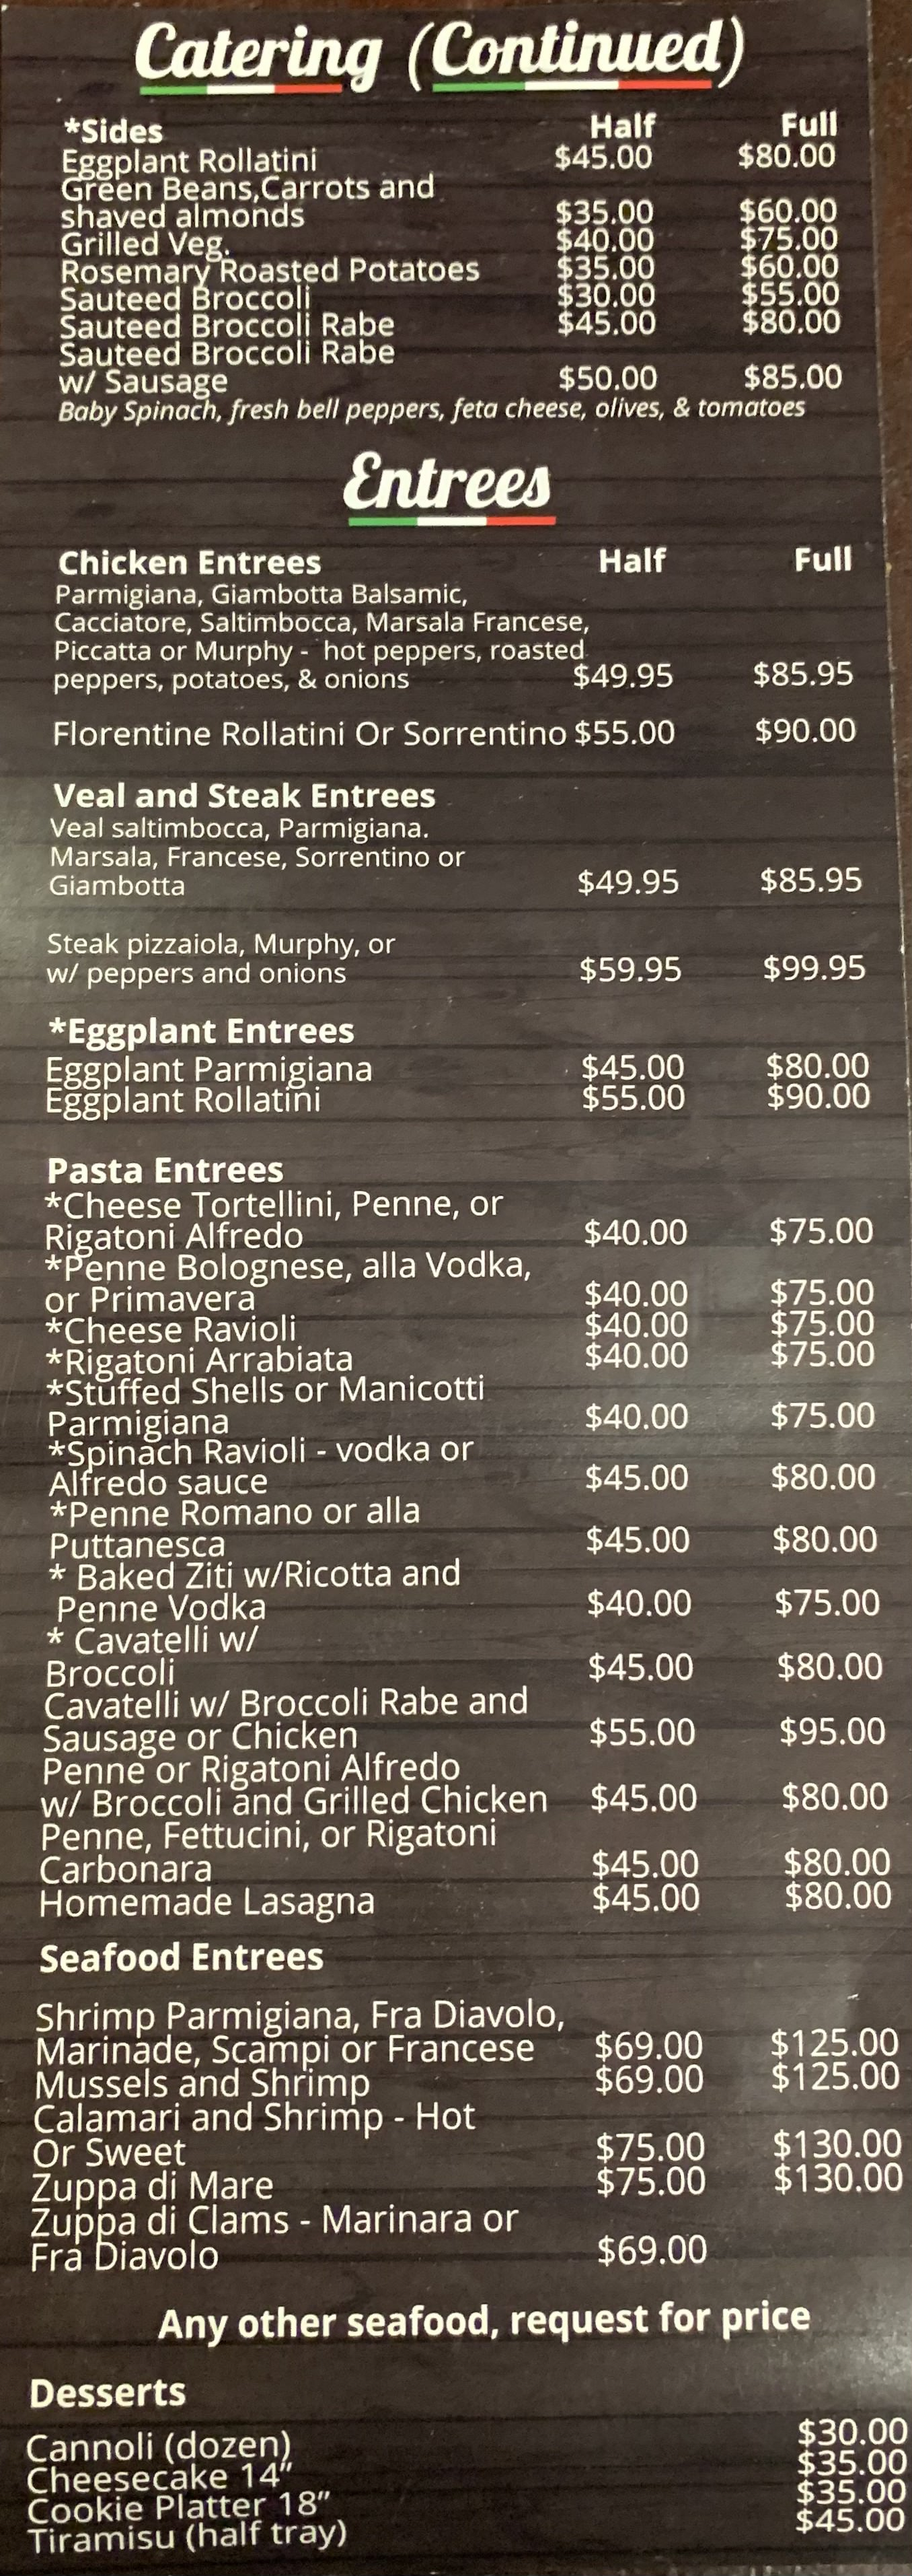
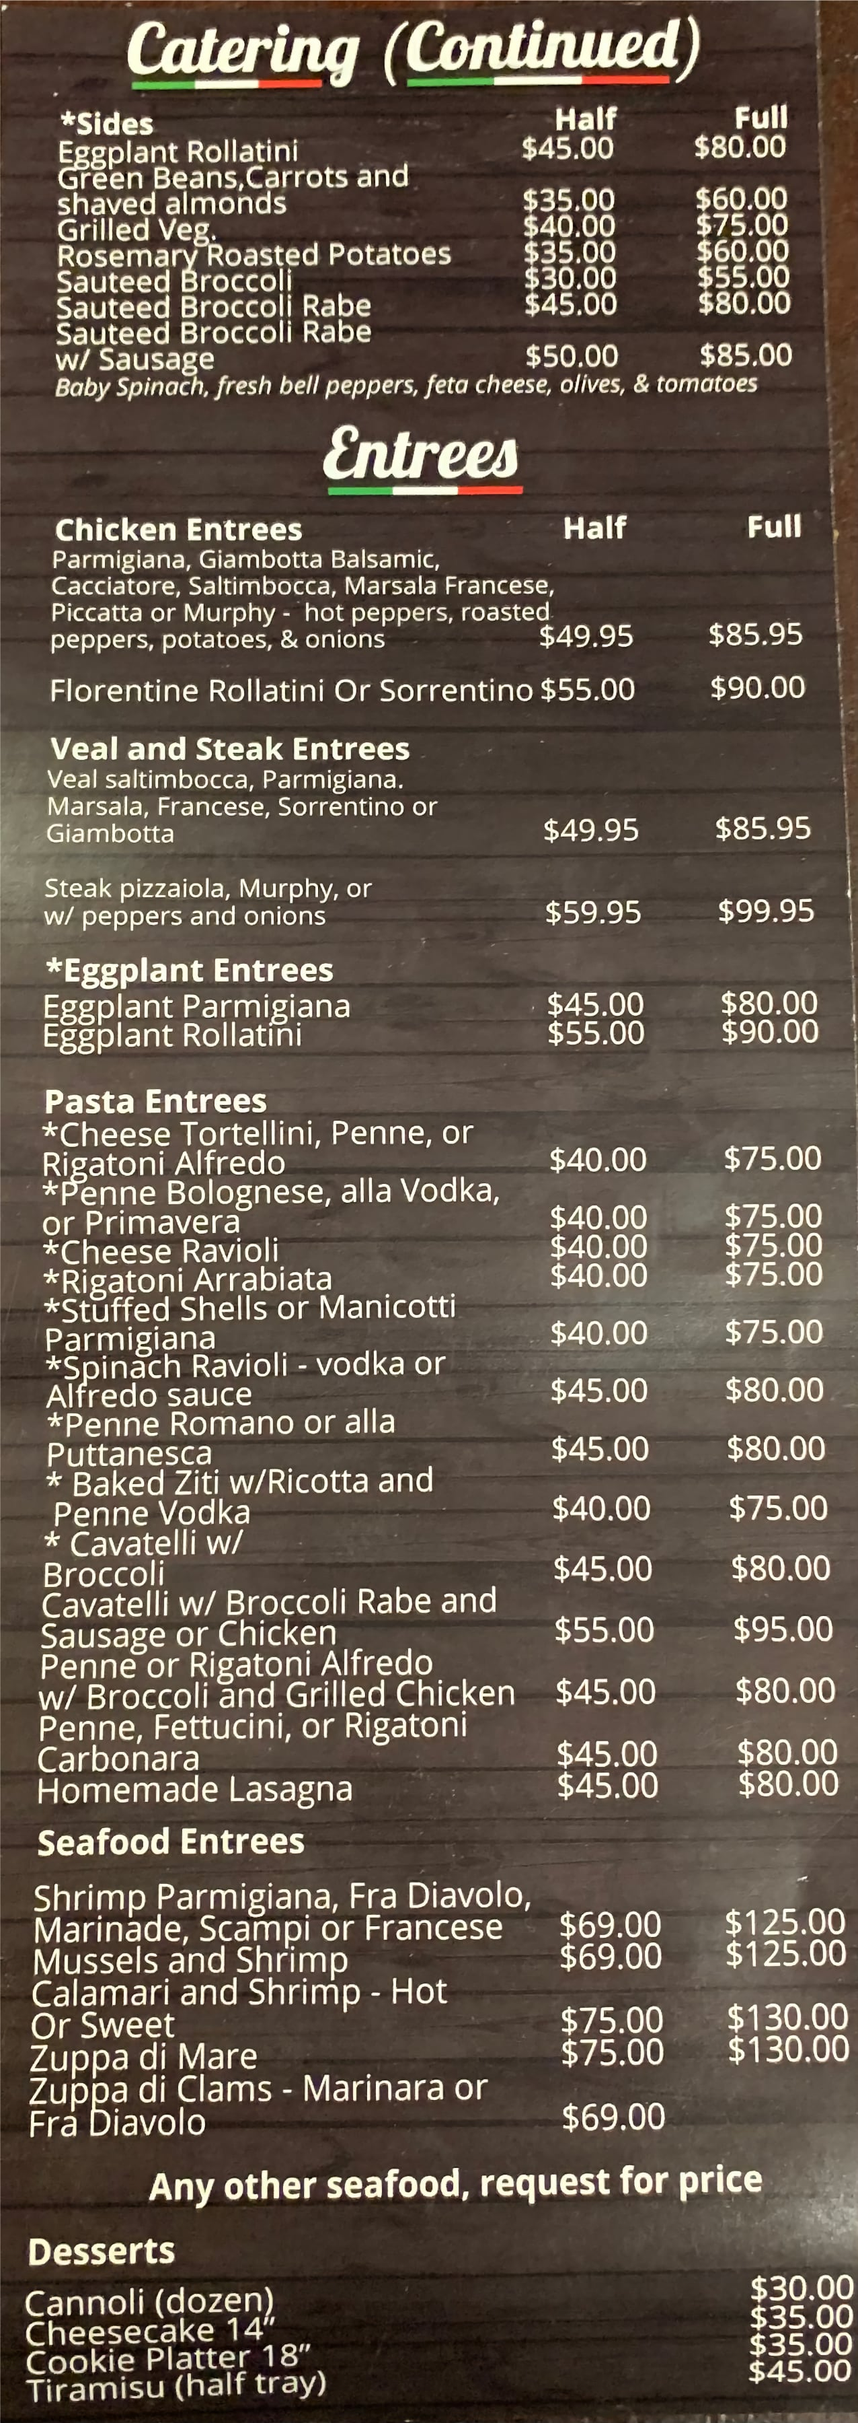
Added some catering images

diff --git a/index.html b/index.html
@@ -2544,32 +2544,59 @@
             <h1 id="catering-menu" class="text-center text-decoration-underline">Catering Menu</h1>
             <p class="text-center mb-0"><em>Choose any appetizer from our regular menu.</em></p>
             <p class="text-center mb-0"><em>Half Trays serve 8-10 people</em></p>
-            <p class="text-center pb-1"><em>Full Trays serve 13-15 people</em></p>
+            <p class="text-center"><em>Full Trays serve 13-15 people</em></p>
 
-            <div class="container-fluid container-md d-flex align-items-center">
-              <div class="menu-category text-center">Salads</div>
-              <h4 class="catering-tray my-auto delivery-header ms-auto">Half Tray | Full Tray</h4>
+          <!-- Catering Menu Images -->
+          <div class="menu-images catering-menu-images mb-3">
+
+            <div class="menu-images-item">
+              <a class="mx-auto my-auto" type="button" data-bs-toggle="modal" data-bs-target="#cateringmenu_1">
+                <img src="img/catering_menu_1.jpg" alt="Menu Image" class="menu-image d-block img-fluid mx-auto my-auto shadow">
+              </a>
             </div>
 
-            <div class="card border-0">
-              <div class="card-body menu-item-card-body pt-1">
-                <div class="d-inline-flex w-100">
-                  <p>Add Grilled Chicken</p>
-                  <p class="ms-auto">+$12.95 | +$19.95</p>
+            <div class="menu-images-item">
+              <a class="mx-auto my-auto" type="button" data-bs-toggle="modal" data-bs-target="#cateringmenu_2">
+                <img src="img/catering_menu_2.jpg" alt="Menu Image" class="menu-image d-block img-fluid mx-auto my-auto shadow">
+              </a>
+            </div>
+
+          </div>
+
+          <!-- Catering Menu Modals -->
+          <div class="modal modal-xl fade" id="cateringmenu_1" tabindex="-1" aria-labelledby="cateringMenu1Modal" aria-hidden="true">
+            <div class="modal-dialog modal-dialog-centered modal-dialog-scrollable">
+              <div class="modal-content">
+                <div class="modal-header">
+                  <h5 class="modal-title" id="exampleModalLabel">Catering, Part 1 of 2</h5>
+                  <button type="button" class="btn-close" data-bs-dismiss="modal" aria-label="Close"></button>
+                </div>
+                <div class="modal-body">
+                  <img src="img/catering_menu_1.jpg" alt="Menu Image" class="menu-image d-block img-fluid mx-auto my-auto shadow">
+                </div>
+                <div class="modal-footer">
+                  <button type="button" class="btn btn-secondary" data-bs-dismiss="modal">Close</button>
                 </div>
               </div>
             </div>
+          </div>
 
-            <div class="card border-0">
-              <div class="card-body menu-item-card-body pt-0">
-                <div class="d-inline-flex w-100">
-                  <p>Add Any Seafood</p>
-                  <p class="ms-auto">+$18.95 | +$25.95</p>
+          <div class="modal modal-xl fade" id="cateringmenu_2" tabindex="-1" aria-labelledby="cateringMenu2Modal" aria-hidden="true">
+            <div class="modal-dialog modal-dialog-centered modal-dialog-scrollable">
+              <div class="modal-content">
+                <div class="modal-header">
+                  <h5 class="modal-title" id="exampleModalLabel">Catering Menu, Part 2 of 2</h5>
+                  <button type="button" class="btn-close" data-bs-dismiss="modal" aria-label="Close"></button>
+                </div>
+                <div class="modal-body">
+                  <img src="img/catering_menu_2.jpg" alt="Menu Image" class="menu-image d-block img-fluid mx-auto my-auto shadow">
+                </div>
+                <div class="modal-footer">
+                  <button type="button" class="btn btn-secondary" data-bs-dismiss="modal">Close</button>
                 </div>
               </div>
             </div>
-
-
+          </div>
 
           </div>
 

diff --git a/style.css b/style.css
@@ -175,6 +175,10 @@ h1#catering-menu {
     margin-bottom: auto;
 }
 
+.catering-menu-images img {
+    height: 30rem;
+}
+
 /* Delivery */
 .delivery-header {
     color: #4C4C4C;
